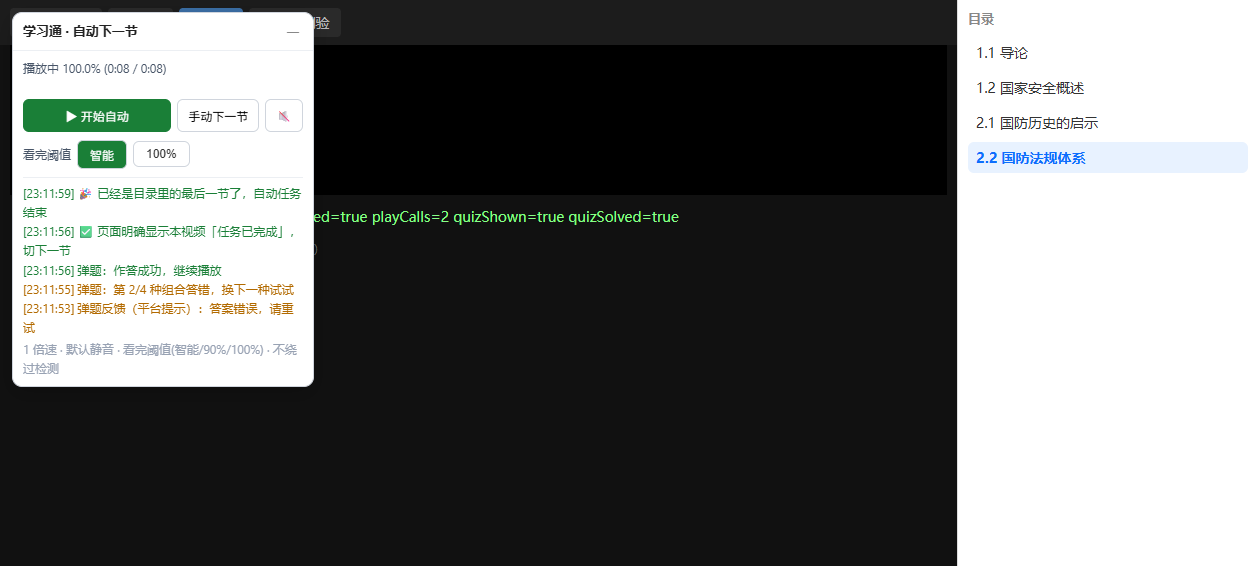
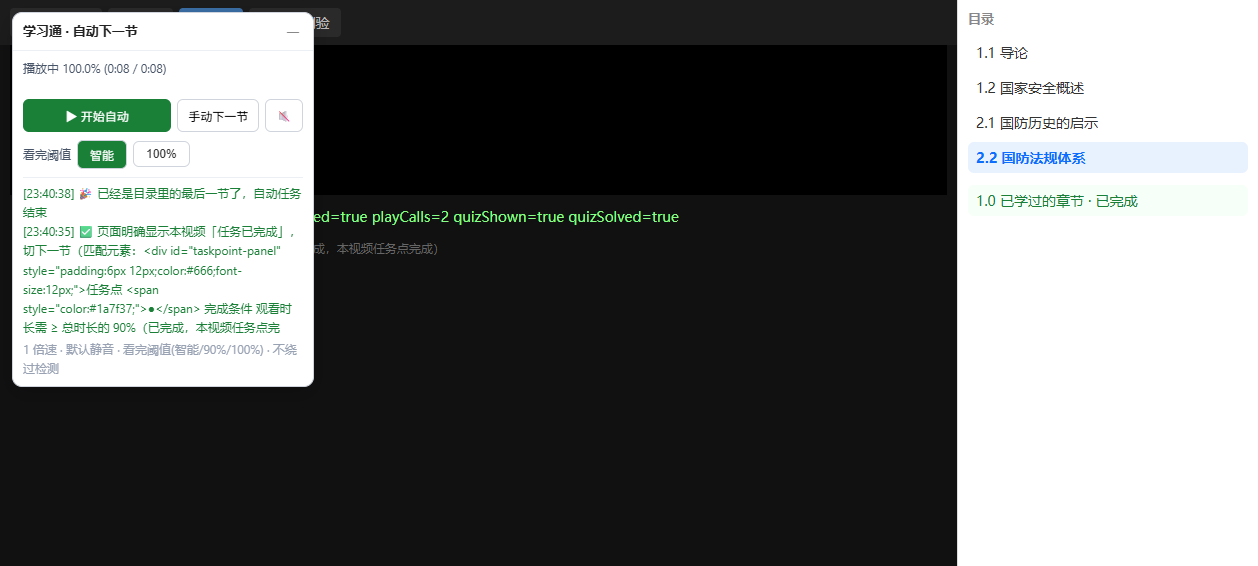
v1.3.15 智能模式检测完成信号改为只盯当前视频任务点面板，不再搜整页（修复误判其它已看完章节的'已完成'导致提前切）

diff --git a/chaoxing-auto-next.user.js b/chaoxing-auto-next.user.js
@@ -1,7 +1,7 @@
 // ==UserScript==
 // @name         超星学习通 · 自动播放 + 播完自动下一节
 // @namespace    workbuddy.chaoxing.autonext
-// @version      1.3.14
+// @version      1.3.15
 // @description  自动播放当前章节的视频；播放完成后自动点击右侧目录的下一节并继续播放。不加速、不绕过平台的防挂机检测（视频内弹出的单选/多选题会自动尝试作答，多选暴力枚举组合）。
 // @author       WorkBuddy
 // @match        *://*.chaoxing.com/mycourse/studentstudy*
@@ -567,10 +567,11 @@
     return s;
   }
 
-  /* 从视频旁的「任务点」面板读取本视频的完成条件，返回阈值比例（如 0.90）；读不到返回 null。
-     面板文案形如："任务点 / 完成条件 / 观看时长需 ≥ 总时长的 90%"。
-     用文本匹配（不依赖具体 class 名），并取"文本最短"的那个元素（最贴近面板本身，避开外层容器）。 */
-  function readVideoTaskThreshold() {
+  /* 定位"当前视频的任务点面板"：返回页面里含"完成条件"/"观看时长"且文本最短的元素
+     （最贴近本视频任务点本身，避开外层容器）。
+     这是"读观看要求阈值"与"检测本视频完成"的共同锚点——只在本视频任务点范围内判断，
+     避免被页面里其它已看完章节的"已完成"干扰（否则会出现"当前视频没完成就提前切"）。 */
+  function findCurrentTaskPointEl() {
     const docs = collectDocs();
     let best = null;
     for (let i = 0; i < docs.length; i++) {
@@ -579,57 +580,65 @@
       for (let j = 0; j < els.length; j++) {
         const t = els[j].textContent || '';
         if (t.indexOf('观看时长') === -1 && t.indexOf('完成条件') === -1) continue;
-        const m = t.match(/总时长[^0-9]{0,8}(\d{1,3})\s*%/);
-        if (m) {
-          const pct = parseInt(m[1], 10);
-          if (pct >= 1 && pct <= 100 && (!best || t.length < best.len)) {
-            best = { pct: pct / 100, len: t.length };
-          }
-        }
+        if (!best || t.length < best.len) best = { el: els[j], len: t.length };
       }
     }
-    return best ? best.pct : null;
+    return best ? best.el : null;
   }
 
-  /* 智能模式：检测"页面是否已明确显示本视频任务点完成"。
-     平台说"观看时长 ≥ 总时长 90% 完成"只是观看要求，真正记完成要等它**显式标记**；
-     所以我们不靠百分比，而是轮询这个显式信号。
+  /* 从视频旁的「任务点」面板读取本视频的完成条件，返回阈值比例（如 0.90）；读不到返回 null。
+     面板文案形如："任务点 / 完成条件 / 观看时长需 ≥ 总时长的 90%"。 */
+  function readVideoTaskThreshold() {
+    const el = findCurrentTaskPointEl();
+    if (!el) return null;
+    const t = el.textContent || '';
+    const m = t.match(/总时长[^0-9]{0,8}(\d{1,3})\s*%/);
+    if (m) {
+      const pct = parseInt(m[1], 10);
+      if (pct >= 1 && pct <= 100) return pct / 100;
+    }
+    return null;
+  }
+
+  /* 智能模式：检测"页面是否已明确显示【本视频】任务点完成"。
+     关键：必须限定在"当前这个视频的任务点"范围内，不能搜整个页面——
+     页面里其它已看完的章节 / 课程也会显示"已完成"，若不限范围会把那些也算进来，导致"当前视频还没完成就提前切"。
+     做法：先定位当前视频的「任务点」面板（findCurrentTaskPointEl），再从该元素向上逐层搜索，
+          但**子树文本一旦超过 400 字就停止上溯**——只覆盖本视频任务点那一小块（要求文案 + 状态徽标），
+          不爬进包含右侧目录 / 其它已看完章节的大容器（那里也有"已完成"，否则会误判提前切）。
      判定（基于文本，不依赖固定 class）：
        正向完成文案：已完成 / 任务完成 / 已学完 / 学习完成 / 已看完 / 已经完成 / 完成✔ / 完成✓
        排除"未完成"（"未完成任务点前…"这种提示不是完成态）。
      注：不把"完成条件"当完成信号——那是静态的"要求文案"，一直都在，不代表已完成。 */
   function detectVideoTaskCompleted() {
-    const docs = collectDocs();
+    const anchor = findCurrentTaskPointEl();
+    if (!anchor) return false;
     const DONE = /(已完成|任务完成|已学完|学习完成|已看完|已经完成|完成✔|完成✓)/;
     const NOTDONE = /(未完成)/;
-    for (let i = 0; i < docs.length; i++) {
-      let els;
-      try { els = docs[i].querySelectorAll('*'); } catch (e) { continue; }
-      for (let j = 0; j < els.length; j++) {
-        const t = (els[j].textContent || '').trim();
-        if (t && DONE.test(t) && !NOTDONE.test(t)) return true;
+    /* 从锚点向上逐层搜索，但**一旦某层子树文本过长就停止上溯**——
+       这样只覆盖"本视频任务点那一小块"（要求文案 + 状态徽标，通常几十字），
+       不会爬到包含右侧目录/其它已看完章节的大容器（那里也有"已完成"，会误判提前切）。 */
+    let node = anchor;
+    for (let lvl = 0; lvl < 8 && node; lvl++) {
+      const txt = (node.textContent || '').trim();
+      if (txt.length > 400) break;   // 容器过大 → 已跑到整页/含目录，停止，避免把别的"已完成"算进来
+      if (txt && DONE.test(txt) && !NOTDONE.test(txt)) {
+        try { window.__cxDoneMatch = (node.outerHTML || txt).replace(/\s+/g, ' ').slice(0, 400); } catch (e) {}
+        return true;
       }
+      node = node.parentElement;
     }
     return false;
   }
 
-  /* 诊断：抓取「任务点」面板/元素的 HTML 节选，用于校准 detectVideoTaskCompleted 的完成态信号。
-     仅在进入"等待完成"状态 / 超时时打印，方便你无需手动 F12 就能把真实 DOM 发我校准。 */
+  /* 诊断：抓取当前视频「任务点」面板的 HTML 节选，用于校准 / 排查。
+     仅在进入"等待完成"状态、超时时、以及命中完成时打印，方便你无需手动 F12 就把真实 DOM 发我校准。 */
   function diagTaskPointHTML() {
-    const docs = collectDocs();
-    for (let i = 0; i < docs.length; i++) {
-      let els;
-      try { els = docs[i].querySelectorAll('*'); } catch (e) { continue; }
-      for (let j = 0; j < els.length; j++) {
-        const t = (els[j].textContent || '');
-        if (t.indexOf('任务点') !== -1 || t.indexOf('完成条件') !== -1 || t.indexOf('观看时长') !== -1) {
-          let s = '';
-          try { s = els[j].outerHTML; } catch (e) { s = els[j].textContent || ''; }
-          return (s || '').replace(/\s+/g, ' ').slice(0, 500);
-        }
-      }
-    }
-    return '';
+    const el = findCurrentTaskPointEl();
+    if (!el) return '(未找到当前视频任务点面板：页面里没有含"完成条件/观看时长"的元素)';
+    let s = '';
+    try { s = el.outerHTML; } catch (e) { s = el.textContent || ''; }
+    return (s || '').replace(/\s+/g, ' ').slice(0, 500);
   }
 
   /* 执行"切下一节"：先等 SWITCH_DELAY_MS 让平台落库，再 goNext */
@@ -748,7 +757,9 @@
       if (detectVideoTaskCompleted()) {
         if (!videoCompletedSignaled) {
           videoCompletedSignaled = true;
-          log('✅ 页面明确显示本视频「任务已完成」，切下一节', 'ok');
+          const m = (typeof window.__cxDoneMatch === 'string' && window.__cxDoneMatch)
+            ? '（匹配元素：' + window.__cxDoneMatch + '）' : '';
+          log('✅ 页面明确显示本视频「任务已完成」，切下一节' + m, 'ok');
         }
         doSwitch();
         return;

diff --git a/mock/layer2.html b/mock/layer2.html
@@ -142,13 +142,16 @@
   };
 
   setInterval(function () {
-    /* 视频真正结束后：① 把「任务点」面板文案翻成"已完成"（模拟超星显式标记本视频任务完成）；
-       ② 通知顶层把当前目录节点标记为「已完成」。脚本智能模式应据此信号才切下一节。 */
-    if (v.ended && !window.__markedComplete) {
+    /* 视频真正结束后：平台**延迟 2 秒**才把「任务点」面板翻成"已完成"（模拟超星落库延迟，
+       即"视频播完了、面板还没显示完成"的那段窗口）。脚本智能模式必须等这个显式信号才切。 */
+    if (v.ended && !window.__completeAt) window.__completeAt = Date.now() + 2000;
+    if (window.__completeAt && !window.__markedComplete && Date.now() >= window.__completeAt) {
       window.__markedComplete = true;
       try {
         var p = document.getElementById('taskpoint-panel');
-        if (p) p.innerHTML = '任务点 <span style="color:#1a7f37;">●</span> 已完成（观看时长已达标，本视频任务点完成）';
+        /* 保留"完成条件/观看时长"锚点文本（脚本靠它定位本视频任务点），只在末尾加上"已完成"，
+           模拟超星"要求文案还在、状态翻成已完成"的真实表现；去掉"未完成"以免被排除规则误伤。 */
+        if (p) p.innerHTML = '任务点 <span style="color:#1a7f37;">●</span> 完成条件 观看时长需 ≥ 总时长的 90%（已完成，本视频任务点完成）';
         var top = window.parent && window.parent.parent;
         if (top && top.markActiveComplete) top.markActiveComplete();
       } catch (e) {}

diff --git a/mock/index.html b/mock/index.html
@@ -22,6 +22,11 @@
   <div id="right">
     <h3>目录</h3>
     <div id="cat"></div>
+    <!-- 回归测试用：模拟"课程里其它已经看完的章节"——页面上存在"已完成"文本。
+         脚本的智能检测必须**忽略**它（只看当前视频任务点面板），否则会"当前视频没完成就提前切"。 -->
+    <div id="other-completed" style="margin-top:10px;padding:6px 8px;background:#f6fff8;color:#1a7f37;border-radius:6px;">
+      1.0 已学过的章节 · 已完成
+    </div>
   </div>
 
 <script>

diff --git a/安装与使用说明.md b/安装与使用说明.md
@@ -77,7 +77,7 @@
 - **不要一次刷太猛**。连着刷几十节容易触发平台风控。建议分批、间隔着来。
 - **遇到章节测验/作业，脚本会停下来**等你自己做；做完再点"手动下一节"或等它继续。
 - 超星偶尔改版（前端结构变化），目录/视频选择器可能失效。若面板报"没找到右侧课程目录"，多半是改版了，告诉我，我再更新选择器。
-- **关于"智能"模式怎么判断"看完了"**：这是面板上 **智能** 模式的判定逻辑——它**严格以"页面是否明确显示本视频任务已完成"为准**，既不按百分比提前跳、也不等整节目录清零。具体做法：脚本先从视频旁的 **「任务点」面板** 读本视频的"观看要求"（形如"完成条件 观看时长需 ≥ 总时长的 90%"）作为**进门门槛**；达到门槛（或视频播到结尾）后，开始**轮询等待页面显式出现"任务已完成 / 已完成"这类信号**，一出现就切下一节。原因：超星写"90% 完成"只是**观看要求**，真正把任务点记"已完成"要等它显式标记——你实测也确认"播到 90% 时任务并未完成，必须等页面明确显示完成任务后才能切"。若平台迟迟不标记（改版 / 网络延迟），脚本会持续等待最多 90 秒，超时再按安全兜底切走并在日志提示（此时请把日志里"等待期任务点面板 HTML"发我校准）。**注意**：智能模式只接管"本视频看够且平台确认完成就跳"，章节里的考核/作业仍要你手动做；若你更想要"进度到点就跳、不等确认"，切到 **100%** 模式即可。
+- **关于"智能"模式怎么判断"看完了"**：这是面板上 **智能** 模式的判定逻辑——它**严格以"页面是否明确显示本视频任务已完成"为准**，既不按百分比提前跳、也不等整节目录清零。具体做法：脚本先从视频旁的 **「任务点」面板** 读本视频的"观看要求"（形如"完成条件 观看时长需 ≥ 总时长的 90%"）作为**进门门槛**；达到门槛（或视频播到结尾）后，开始**只在本视频自己的「任务点」面板里轮询等待显式出现"任务已完成 / 已完成"这类信号**，一出现就切下一节。**这个检测严格限定在当前视频的面板范围内，不会去搜整页**——因为超星课程页里其它"已经看完"的章节也写着"已完成"，搜整页会误把那些旧章节的"已完成"当成当前视频已完成，导致提前切走（你实测就遇到过"视频播到 90% 左右、当前面板还没显示完成就切了"）。脚本的做法：先定位当前视频的「任务点」面板（最短文本命中"观看时长/完成条件"的那个元素），只在该面板内、向上爬最多 8 层、且一旦子树文字超过 400 字（说明已经爬到含目录的整页大容器）就立刻停，绝不把别的章节"已完成"算进来。原因：超星写"90% 完成"只是**观看要求**，真正把任务点记"已完成"要等它显式标记——你实测也确认"播到 90% 时任务并未完成，必须等页面明确显示完成任务后才能切"。若平台迟迟不标记（改版 / 网络延迟），脚本会持续等待最多 90 秒，超时再按安全兜底切走并在日志提示（此时请把日志里"等待期任务点面板 HTML"发我校准）。**注意**：智能模式只接管"本视频看够且平台确认完成就跳"，章节里的考核/作业仍要你手动做；若你更想要"进度到点就跳、不等确认"，切到 **100%** 模式即可。
 
 ---
 
@@ -109,6 +109,7 @@
 
 ## 七、版本更新
 
+- **v1.3.15**（2026-10-12）：**修复「智能模式误判其它已看完章节的『已完成』而提前切」。** 你实测截图指出：当前视频只播到 90% 左右、自己的任务点面板还没显示完成，脚本却切走了。根因是 v1.3.13 的 `detectVideoTaskCompleted()` 在**整页**搜"已完成"，而课程页里其它早已看完的章节同样写着"已完成"，于是被误判成当前视频已完成。改为：**把检测严格限定在当前视频自己的「任务点」面板内**——先用 `findCurrentTaskPointEl()` 定位该面板（取最短文本命中"观看时长/完成条件"的元素），再只在面板内向上爬最多 8 层父节点、且一旦子树文字 > 400 字（已爬到含目录的整页大容器）就立刻停，绝不让别的章节"已完成"混进来。同步在 mock 加回归用例：页面放一个写"已完成"的其它章节 div、并让当前面板在视频结束后延迟 2 秒才翻成"已完成"，以复现并验证该 bug。自测通过：匹配到的元素是当前视频的 `taskpoint-panel`、对"其它已完成"的 grep 命中为 0、时间线为「满足观看要求 → 页面明确显示本视频已完成 → 切下一节」，4 节全部正确等完成再切。
 - **v1.3.14**（2026-10-12）：**移除「90%」看完阈值选项**，面板「看完阈值」按钮只剩 **智能 / 100%** 两项。原因：90% 模式是"进度到 90% 就直接切、不等平台确认"，而实测证明超星"90% 完成"只是观看要求、真记完成要等显式标记，90% 模式会让下一节判该视频任务点未完成，已无保留价值。删除项：面板 `#cx-ratio-90` 按钮、`renderPanel()` 高亮、`tick()` 的 `ratio90` 分支（gateThreshold=0.90）、`#cx-ratio-90` 点击处理器、相关注释与文档。智能（等页面显式标记完成才切）/ 100%（播到结尾直接切）两种行为不变。自测：`run_selftest_ratio90.sh` 改名为 `run_selftest_100.sh`（改点 100% 按钮），两种模式均复跑无回归。
 - **v1.3.13**（2026-10-12）：**智能模式再次校准——切的触发器从"百分比"改为"页面显式完成信号"。** 你实测指出：超星写"观看时长 ≥ 总时长 90% 完成"只是**观看要求**，播到 90% 时任务点并未真正记完成，必须等页面**明确显示"任务已完成/已完成"**才切，否则下一节会判该视频任务点未完成。改为：智能模式先读本视频的"观看要求"（如 90%）作为**进门门槛**，达到门槛或视频播到结尾后，**不再按百分比提前跳**，而是轮询 `detectVideoTaskCompleted()` 等待页面出现"已完成/任务完成/已学完/学习完成"等显式信号，出现才 `doSwitch()`；最多等 90 秒（安全兜底）避免卡死，并在进入等待、超时两处自动打印"任务点面板 HTML(节选)"供校准。同步 mock 在视频结束后把任务点面板翻成"已完成"以自测该路径。自测通过（4 节均「页面明确显示本视频「任务已完成」，切下一节」）。
 - **v1.3.12**（2026-10-12）：**智能模式再次校准——改读视频自己的「任务点」完成条件**。经你真实超星截图指出：右侧目录的 `jobUnfinishCount`（整节未完成任务点数）包含【考核】等其它任务点，**只看视频永远不会让它归零**，旧逻辑会卡死。改为：智能模式从视频旁的「任务点」面板解析本视频的完成条件（如"观看时长需 ≥ 总时长的 90%"）作为阈值，进度达到即切下一节，只判断"本视频看够没"。读不到时按"看满 100%"兜底并打印提示。删除了已废弃的整节目录完成等待逻辑，自测通过（4 节均「已看 100% ≥ 需 90%，切下一节」）。**⚠ 该版仍按百分比提前跳，已被 v1.3.13 修正为"等页面显式标记完成再跳"。**
